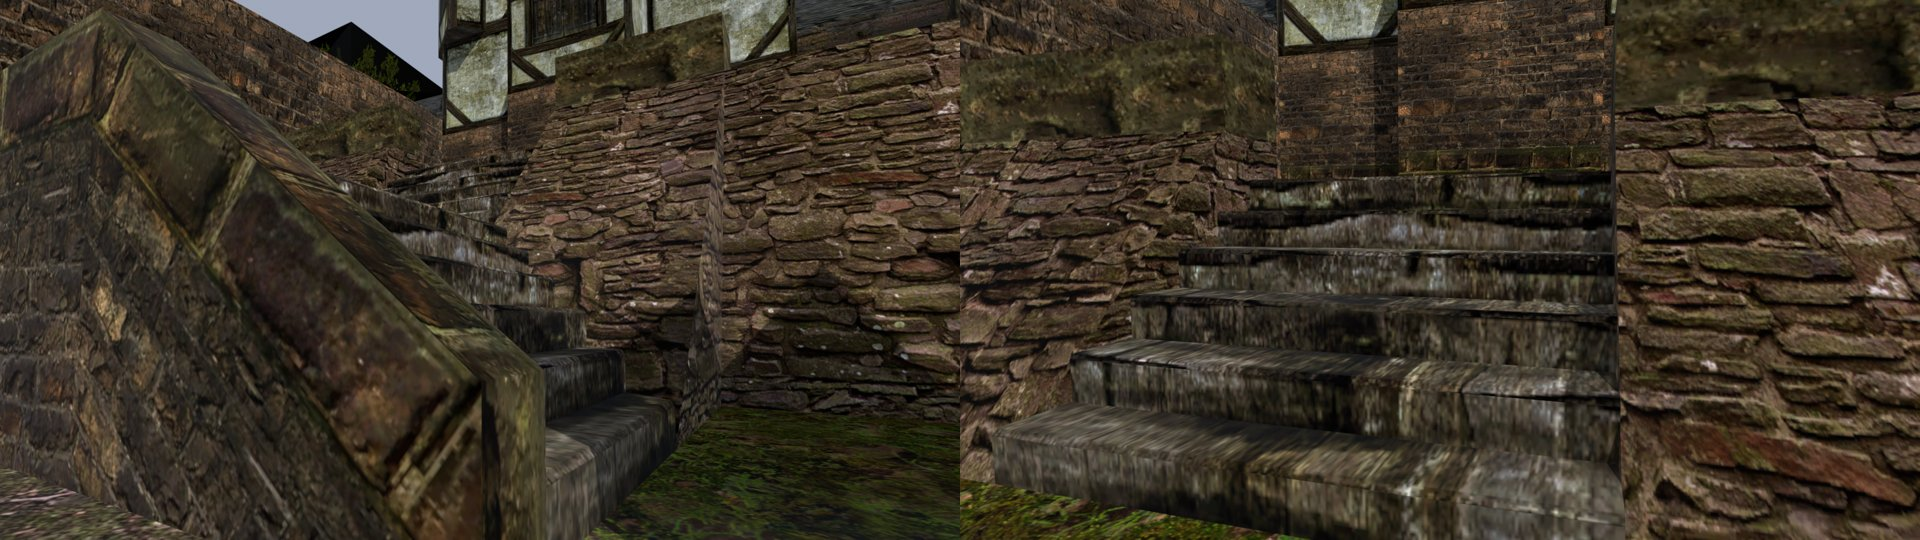
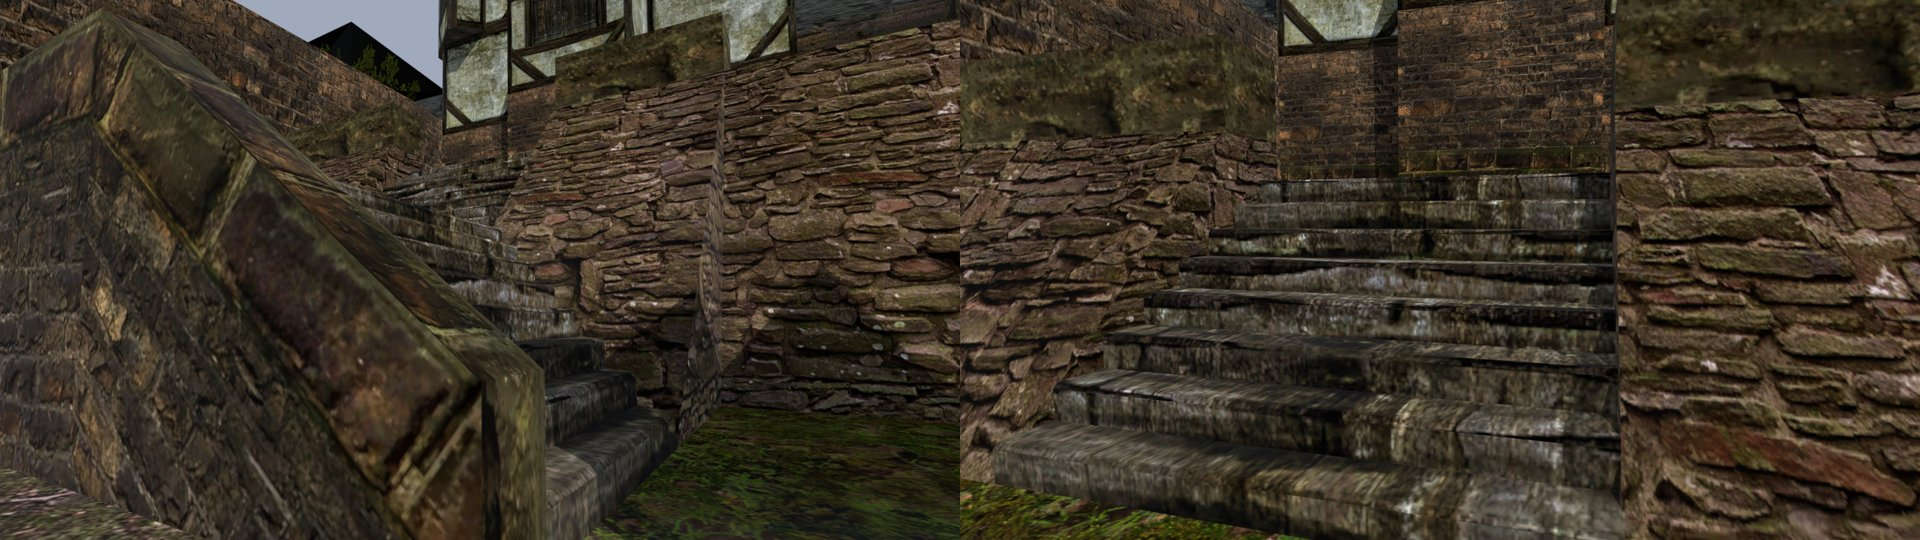
content: M2 - stair to the barracks with the first stair's riser, C1 on full sets
- harbour_stairs_kasern.py: 8 steps of 28.1 cm per flight (the first stair's 26.7 cm
  at the same 2.25 m rise), one painted period per step; walks up and down on Ryzen.
- The M2 sets lacked OWN_ROOF_HOLE_SHADE/WALL: working-8 holds them but none of its
  parts does, so sets composed from its parts lost them and the engine drew no hole
  or shingle-end faces (-44k triangles a frame). Sets now take roofhole-materials-1
  and match working-8 byte for byte outside the M2 chunks.
- C1 on the harbour, working-8 -> harbour-volume-4: p95 -0.05 %, in noise,
  +16k triangles a frame. Captures and reviewer packets redone on the fixed sets.
- Plan M2 row: crane decks and the stair to the barracks, as the orchestrator decided.

Changed region(s): [[0.5, 0.2963, 0.8438, 1.0], [0.1562, 0.2667, 0.3438, 0.9481]]

diff --git a/scripts/content/world/harbour_stairs_kasern.py b/scripts/content/world/harbour_stairs_kasern.py
@@ -7,10 +7,10 @@ An edit of world_edit.py on the chunk NEWWORLD/0_0 (set stairskasern-1):
 
 By the waypoint NW_CITY_HABOUR_KASERN_07 the path from the harbour climbs 4.50 m between stone walls in two flights
 of NW_HARBOUR_STAIRS_01 with a landing between them. Each flight is two triangles, one texture tile along the slope:
-6 painted steps, a light tread band (42 % of the period) over a dark riser (58 %), 2.25 m rise. The lower flight
-is a trapezoid: its foot is cut askew by the yard, 2.45 m wide at the bottom and 4.50 m at the top. The edit
-replaces each flight with 6 treads and risers in the original's proportions (37.5 cm riser), each nosing with a
-4 cm worn chamfer, the inner corners on the old ramp line, so the steps run into the side walls and the landing
+6 painted steps, a light tread band (42 % of the period) over a dark riser (58 %), 2.25 m rise over 3.5 m. The
+lower flight is a trapezoid: its foot is cut askew by the yard, 2.45 m wide at the bottom and 4.50 m at the top.
+The edit replaces each flight with the steps of the first stair (stairs-3: 26.7 cm riser): 8 steps of 28.1 cm,
+each taking one painted period of the texture, each nosing with a 4 cm worn chamfer, the inner corners on the old ramp line, so the steps run into the side walls and the landing
 without gaps; the sides follow the flight's own edges, so the trapezoid stays a trapezoid. Treads and risers both
 take the light band: the dark band is painted shadow, which the engine casts itself on a real riser (the lesson of
 the first stair, reports/content/2026-10-harbour-stairs/README.md). U across as on the ramp. Everything else in
@@ -24,13 +24,14 @@ from mathutils import Vector
 from world_bpy import gothic_name, to_blender, to_gothic
 
 PER_TILE = 6                # painted steps per texture tile along the slope
+RISER = 320.0 / 12          # cm: the riser of the first stair (stairs-3, harbour_stairs.py), which this one keeps
 TREAD_SHARE = 0.42          # light band of one period, measured on the texture (harbour_stairs.py)
 NOSING = 4.0                # cm, worn chamfer on each nosing
 NOSING_SHARE = 0.10         # the lower end of the light band goes on the chamfer
 MATERIAL = 'NW_HARBOUR_STAIRS_01'
 # The two flights in Gothic centimetres (x, z): by NW_CITY_HABOUR_KASERN_07.
 BOX = ((1500.0, 2300.0), (4900.0, 5950.0))
-PARAMETERS = {'material': MATERIAL, 'steps_per_tile': PER_TILE, 'tread_share': TREAD_SHARE, 'nosing_cm': NOSING,
+PARAMETERS = {'material': MATERIAL, 'steps_per_tile': PER_TILE, 'riser_cm': RISER, 'tread_share': TREAD_SHARE, 'nosing_cm': NOSING,
               'nosing_share': NOSING_SHARE, 'box_cm': {'x': list(BOX[0]), 'z': list(BOX[1])}}
 
 
@@ -95,8 +96,10 @@ def edit(ctx):
         flat = lambda v: Vector((v.x, 0.0, v.z))
         run_l, run_r = flat(t0[1] - b0[1]), flat(t1[1] - b1[1])
         v_bottom, v_top = 1.0 - b0[2].y, 1.0 - t0[2].y           # glTF v (Blender stores 1 - v)
-        steps = round((v_bottom - v_top) * PER_TILE)
-        period = (v_bottom - v_top) / steps
+        # as many steps as the first stair's riser gives; each takes one painted period of the texture, so
+        # the light band stays on the tread although the flight has more steps than the texture paints
+        steps = round(rise / RISER)
+        period = (v_bottom - v_top) / round((v_bottom - v_top) * PER_TILE)
         if color_corner is not None:
             colour = tuple(b0[3][color_corner])
         elif color_point is not None:
@@ -158,8 +161,7 @@ def edit(ctx):
         gn = NOSING / (horizontal.length / steps)
         hn = NOSING / (rise / steps)
         for s in range(1, steps + 1):
-            j = steps - s
-            v_back = v_top + j * period
+            v_back = v_bottom - (s % PER_TILE or PER_TILE) * period      # one painted period per step, counted from the foot
             v_nose = v_back + TREAD_SHARE * period
             v_edge = v_nose - NOSING_SHARE * period
             t, h = s - 1, s - 1

diff --git a/docs/world-detail-plan.md b/docs/world-detail-plan.md
@@ -50,7 +50,7 @@
 
 Настроение — сырость, работа, бедность без запустения ([П1–П4](khorinis-art-bible.md#порт-и-бедный-квартал)).
 
-- **Объём.** Ступени лестниц порта поверх пандуса (Д1). Края деревянных причалов с торцами досок и железными обвязками. Кромка гонтовых кровель `ROOF_01`: видна толщина, торцы дранки.
+- **Объём.** Ступени лестниц порта поверх пандуса (Д1). Края настилов портовых кранов с торцами досок и накладками (деревянных причалов в порту нет). Кромка гонтовых кровель `ROOF_01`: видна толщина, торцы дранки.
 - **Подмена предметов.** Ящики и бочки порта (бочка уже включена), краны, пушки на набережной, сети, бухты канатов (`harbour-rigging`).
 - **Следы жизни (Д1).** Сети сушатся на стойках у рыбаков. У складов штабели ящиков, у рыбаков корзины с рыбой и вёдра. В бедном квартале дрова у стен, бельё на верёвках, мусор в углах проулков. Всё свалено, а не расставлено (П4).
 - **Движение.** Паруса корабля паладинов и флаги — ткань уже есть, нужно проверить, что она включена на этих предметах. Дым из труб таверны и хижин (Д2), чайки над водой, плеск у набережной.
@@ -153,7 +153,7 @@
 | Шаг | Что | Готово, когда |
 |---|---|---|
 | М1 | Инструмент правки мира: обобщить `harbour_stairs.py` и `roof_holes.py` — взять кусок, подложить оригинал в Blender, вернуть кусок со сверкой (границы куска, связность, коллизия, площадь), запись в `world-edits.jsonl` | лестница и провалы пересобираются инструментом в те же куски |
-| М2 | Объём порта инструментом М1: кромки причалов с торцами досок, видимая толщина кромки `ROOF_01`, вторая лестница `HARBOUR_STAIRS_03` | Р3 PASS в обоих порядках, цена в пороге Ц1 |
+| М2 | Объём порта инструментом М1: кромки настилов кранов (`HARBOUR_WOOD_IRON_01`) с торцами досок, видимая толщина кромки `ROOF_01`, лестница к казармам (`HARBOUR_STAIRS_01`, кусок 0_0) | Р3 PASS в обоих порядках, цена в пороге Ц1 |
 | М3 | Снасти порта `harbour-rigging` (очередь № 10): сети, бухты канатов, пушки, ящики — моделями | Р3 PASS |
 | М4 | Следы жизни порта — после Д1: сети на стойках, штабели ящиков, корзины с рыбой, дрова, бельё; всё свалено, а не расставлено (П4) | слой `vobs.d/harbour-life.json`, Р3 по всему кадру, цена в пороге |
 | М5 | Движение и ночь порта: проверить ткань на парусах корабля и флагах, дым из труб таверны и хижин (после Д2), фонари набережной | кадры днём и ночью, Р3 |
@@ -209,9 +209,11 @@
 **2026-10-30 — М2: объём порта, три правки готовы к приёмке.** Инструментом М1 сделаны три правки мира, каждая в своём наборе поверх частей `working-8`, с ассетом, обмером, слепыми парами на Ryzen и пакетами рецензента:
 - [кромка гонта хижин](../reports/content/remaster/harbour-roof-edge/README.md) — `roof_edge.py`, `harbour-volume-2`: торцы гонтин нижнего ряда на швах `roofs-8` со стартовым рядом, ступени рядов на фронтонах; +10 706 треугольников (`0_-1` +3 908 поверх провалов, `0_0` +6 798);
 - [настил кранов](../reports/content/remaster/harbour-crane-deck/README.md) — `crane_deck.py`, `harbour-volume-1`: кромка досок 8 см и накладки в объёме на четырёх кранах; +2 032;
-- [лестница к казармам](../reports/content/remaster/harbour-stairs-kasern/README.md) — `harbour_stairs_kasern.py`, `harbour-volume-3`: два марша по 6 ступеней, по ним ходят; +68.
+- [лестница к казармам](../reports/content/remaster/harbour-stairs-kasern/README.md) — `harbour_stairs_kasern.py`, `harbour-volume-3`: два марша по 8 ступеней высотой как у первой лестницы (28,1 см против 26,7), по ним ходят; +92.
 
-Два пункта плана не совпали с миром. Деревянных причалов в порту нет: `HARBOUR_WOOD_IRON_01` лежит на кранах, поэтому сделаны их настилы. `HARBOUR_STAIRS_03` стоит только у портала храма в землях троллей, поэтому взят подъём к казармам. Оба выбора вынесены ведущей сессии. В М1 добавлены `ctx.chunk` (раньше там было имя рабочей копии `base`) и `ctx.base_chunks`: настилы A и B лежат через границу кусков. Урок кровли: квадрат `roofs-8` кончается коньковой доской, и на карнизах её полоска видна на 5–9 см. На первой съёмке она читалась светлой новой планкой по краю. Все три правки вместе — набор `harbour-volume-4`.
+Два пункта плана не совпали с миром. Деревянных причалов в порту нет: `HARBOUR_WOOD_IRON_01` лежит на кранах. `HARBOUR_STAIRS_03` стоит только у портала храма в землях троллей, вне квартала. Ведущая сессия решила: настилы кранов, силуэт и размеры кранов не меняются; лестница — подъём к казармам. Строка М2 выше поправлена. В М1 добавлены `ctx.chunk` (раньше там было имя рабочей копии `base`) и `ctx.base_chunks`: настилы A и B лежат через границу кусков. Урок кровли: квадрат `roofs-8` кончается коньковой доской, и на карнизах её полоска видна на 5–9 см. На первой съёмке она читалась светлой новой планкой по краю. Все три правки вместе — набор `harbour-volume-4`. Ц1 на порту, `working-8 → harbour-volume-4`: Δ p95 −0,05 %, Δ p50 +0,04 %, вердикт «в шуме»; +16 тыс. треугольников на кадр (+1,3 %), вызовов отрисовки столько же ([отчёт](../reports/performance/2026-10-30-content-cost/working-8-vs-harbour-volume-4/report.md)).
+
+Урок сборки: первый замер дал −44 тыс. треугольников на кадр при одних добавках. Причина — `working-8` нельзя пересобрать из его `composition.json`: материалы провалов `OWN_ROOF_HOLE_SHADE` и `OWN_ROOF_HOLE_WALL` лежат в нём, но ни в одной из его частей (`roofholes-2` в staging — только `worlds/`). Наборы, собранные из частей, остались без них, и движок не рисовал грани провалов и торцов. Теперь материалы — часть `roofhole-materials-1` (`roof_hole_shade.py`, файлы побайтно как в `working-8`). Состав `harbour-volume-1…4` сверен с `working-8` по SHA: отличаются только куски М2. У `working-8` счётчик между двумя замерами разошёлся на 703 треугольника (0,06 %), сам счётчик не плавает. Кадры и пакеты рецензента пересняты на исправленных наборах.
 
 **2026-10-30 — Ц1.** Добавлены `scripts/perf-content.sh` и профильные Vulkan-счётчики
 треугольников/draw calls. SHA-256 набора `working-8` сверен при переносе;

diff --git a/reports/content/remaster/harbour-stairs-kasern/README.md b/reports/content/remaster/harbour-stairs-kasern/README.md
@@ -1,16 +1,18 @@
 # Лестница от порта к казармам
 
-Шаг М2 [плана проработки мира](../../../../docs/world-detail-plan.md#план-выполнения), пункт «вторая лестница», 2026-10-30. Лист замысла — [intent.md](intent.md), исполнение — [concept.md](concept.md). Способ — [первой лестницы порта](../../2026-10-harbour-stairs/README.md). Не включено: ждёт приёмки и ворот пользователя по кварталу.
+Шаг М2 [плана проработки мира](../../../../docs/world-detail-plan.md#план-выполнения), пункт «лестница к казармам (`HARBOUR_STAIRS_01`, кусок 0_0)», 2026-10-30. Лист замысла — [intent.md](intent.md), исполнение — [concept.md](concept.md). Способ — [первой лестницы порта](../../2026-10-harbour-stairs/README.md). Не включено: ждёт приёмки и ворот пользователя по кварталу.
 
 ![Оригинал | наше: со двора, нижний марш, верхний марш с площадки](vs-original.jpg)
 
 ## Почему эта лестница
 
-`HARBOUR_STAIRS_03` в порту нет: он стоит только у портала храма в землях троллей. Взят самый большой подъём порта из пандусов `HARBOUR_STAIRS_01`, кроме уже сделанного, — путь к казармам у `NW_CITY_HABOUR_KASERN_07`. Выбор вынесен ведущей сессии вопросом.
+`HARBOUR_STAIRS_03` в порту нет: он стоит только у портала храма в землях троллей, вне квартала. Ведущая сессия 2026-10-30: имя в плане — ошибка; делать пандус `HARBOUR_STAIRS_01` у `NW_CITY_HABOUR_KASERN_07` тем же способом и с той же высотой и глубиной ступеней, что `stairs-3`.
+
+Другие пандусы `HARBOUR_STAIRS_01` без ступеней в порту (не сделаны): кусок `0_0` у `NW_CITY_HABOUR_KASERN_19` (13 м²), кусок `1_0` у `NW_CITY_HABOUR_KASERN_20` (13 м²), кусок `0_-1` в секторе кузницы `S:SCHMIED` (3 м²).
 
 ## Что сделано
 
-[`harbour_stairs_kasern.py`](../../../../scripts/content/world/harbour_stairs_kasern.py): два марша по 6 настоящих ступеней (подступенок 37,5 см) вместо пандусов, фаска 4 см, нижний марш — трапеция, как у оригинала. Подступенок берёт светлую полосу камня: нарисованную тень с него сняли (урок первой лестницы).
+[`harbour_stairs_kasern.py`](../../../../scripts/content/world/harbour_stairs_kasern.py): два марша по 8 настоящих ступеней вместо пандусов, фаска 4 см, нижний марш — трапеция, как у оригинала. Подступенок 28,1 см — ближайший к первой лестнице (26,7) при подъёме марша 2,25 м; проступь 36–45 см (у первой 33,3): вынос марша — оригинала. Нарисовано 6 ступеней на марш, поэтому каждая ступень берёт один нарисованный период. Подступенок берёт светлую полосу камня: нарисованную тень с него сняли (урок первой лестницы).
 
 Набор — `harbour-volume-3`: части `working-8` и `stairskasern-1`.
 
@@ -21,18 +23,20 @@
 | Точка | Оригинал (пандус) | Наше (ступени) |
 |---|---|---|
 | двор | 1871 300 4609 | 1871 300 4609 |
-| площадка | 1709 525 5426 | 1600 525 5615 |
-| верх | 2218 750 5798 | 2372 750 5844 |
-| обратно на площадку | 1515 525 5303 | 1640 525 5392 |
-| обратно во двор | 2006 300 4348 | 1947 300 4356 |
+| площадка | 1709 525 5426 | 1607 525 5603 |
+| верх | 2218 750 5798 | 2354 750 5836 |
+| обратно на площадку | 1515 525 5303 | 1621 525 5379 |
+| обратно во двор | 2006 300 4348 | 1954 300 4359 |
 
-Высоты те же: ступени по 37,5 см герой проходит вверх и вниз.
+Высоты те же: ступени по 28,1 см герой проходит вверх и вниз.
 
 ## Цена
 
 | Кусок | До | После | Δ треугольников |
 |---|---:|---:|---:|
-| `NEWWORLD/0_0` | 11 301 | 11 369 | +68 |
+| `NEWWORLD/0_0` | 11 301 | 11 393 | +92 |
+
+Время кадра: Ц1 на порту для трёх правок М2 вместе (`working-8 → harbour-volume-4`) — Δ p95 −0,05 %, в шуме, +16 тыс. треугольников на кадр (+1,3 %) ([отчёт](../../../performance/2026-10-30-content-cost/working-8-vs-harbour-volume-4/report.md)).
 
 ## Приёмка
 
@@ -45,5 +49,4 @@
 
 ## Что спорно
 
-- Сам выбор лестницы.
 - Сверху ступени светлее нарисованного пандуса: проступи ловят свет, а подступенки без нарисованной тени. Так было и у первой лестницы (`stairs-3`, принята пользователем).

diff --git a/reports/content/remaster/harbour-crane-deck/README.md b/reports/content/remaster/harbour-crane-deck/README.md
@@ -1,12 +1,12 @@
 # Настил портовых кранов
 
-Шаг М2 [плана проработки мира](../../../../docs/world-detail-plan.md#план-выполнения), пункт «кромки деревянных причалов», 2026-10-30. Лист замысла — [intent.md](intent.md), исполнение — [concept.md](concept.md). Не включено: ждёт приёмки и ворот пользователя по кварталу.
+Шаг М2 [плана проработки мира](../../../../docs/world-detail-plan.md#план-выполнения), пункт «кромки настилов кранов», 2026-10-30. Лист замысла — [intent.md](intent.md), исполнение — [concept.md](concept.md). Не включено: ждёт приёмки и ворот пользователя по кварталу.
 
 ![Оригинал | наше: кран C с набережной, угол настила вблизи](vs-original.jpg)
 
 ## Почему краны
 
-Деревянных причалов в порту нет: набережная и пирс к кораблю каменные. `HARBOUR_WOOD_IRON_01` («доски с железом») лежит в порту на четырёх деревянных кранах; самая заметная его часть — дощатый настил крана. Его кромку и накладки и сделали. Замена «причалов» на настилы кранов вынесена ведущей сессии вопросом.
+Деревянных причалов в порту нет: набережная и пирс к кораблю каменные. `HARBOUR_WOOD_IRON_01` («доски с железом») лежит в порту на четырёх деревянных кранах; самая заметная его часть — дощатый настил крана. Его кромку и накладки и сделали. Ведущая сессия подтвердила замену 2026-10-30; силуэт и размеры кранов не меняются, это главная деталь.
 
 ## Что сделано
 
@@ -28,6 +28,8 @@
 | `NEWWORLD/-1_-1` | C | 1 301 | 1 811 | +510 |
 | `NEWWORLD/-1_0` | D | 1 556 | 2 066 | +510 |
 
+Время кадра: Ц1 на порту для трёх правок М2 вместе (`working-8 → harbour-volume-4`) — Δ p95 −0,05 %, в шуме, +16 тыс. треугольников на кадр (+1,3 %) ([отчёт](../../../performance/2026-10-30-content-cost/working-8-vs-harbour-volume-4/report.md)).
+
 ## Приёмка
 
 Пакеты слепых пар, порядки `order-1` и `order-2` (вне git):
@@ -39,6 +41,5 @@
 
 ## Что спорно
 
-- Сама замена «причалов» кранами.
 - Накладки: по имени текстуры — железо, по рисунку — бурые полосы с гвоздями. Объём 2 см читается и так и так; цвет нарисованный.
 - Бока кромки берут полосу доски у края, на них видна вытянутая текстура вблизи.

diff --git a/reports/content/remaster/harbour-stairs-kasern/concept.md b/reports/content/remaster/harbour-stairs-kasern/concept.md
@@ -6,11 +6,11 @@
 
 | Часть | Как устроена | Размер, см | Объёмное или нарисованное |
 |---|---|---|---|
-| ступени | 6 на марш, внутренние углы на прежней линии пандуса | подступенок 37,5; проступь 58 (верхний марш), 49–60 (нижний) | объём |
+| ступени | 8 на марш, внутренние углы на прежней линии пандуса | подступенок 28,1 (у `stairs-3` 26,7); проступь 43,8 (верхний марш), 36,5–44,6 (нижний; у `stairs-3` 33,3) | объём |
 | кромка ступени | стёртая фаска | 4 | объём |
 | стороны | по прежним рёбрам марша: у трапеции нижнего марша ступени сужаются книзу | — | объём |
 
-Отличие от `harbour_stairs.py`: там марш — параллелограмм, здесь нижний марш — трапеция, поэтому каждая ступень ставится на долю пути вдоль каждой из двух сторон, а U — по долям сторон. Квадрат текстуры по склону — 6 ступеней, как у первой лестницы.
+Отличие от `harbour_stairs.py`: там марш — параллелограмм, здесь нижний марш — трапеция, поэтому каждая ступень ставится на долю пути вдоль каждой из двух сторон, а U — по долям сторон. Квадрат текстуры по склону рисует 6 ступеней, а их 8: каждая ступень берёт один нарисованный период, светлая полоса остаётся на проступи.
 
 ## Из чего сделано
 
@@ -20,11 +20,11 @@
 
 | Кусок | До | После | Δ |
 |---|---:|---:|---:|
-| `NEWWORLD/0_0` | 11 301 | 11 369 | +68 |
+| `NEWWORLD/0_0` | 11 301 | 11 393 | +92 |
 
 ## Ходьба
 
-Ступень 37,5 см — выше, чем у первой лестницы (26,7 см). Проверка — [`harbour-stairs-kasern-walk.bench`](../../../../scripts/content/harbour-stairs-kasern-walk.bench): герой идёт шагом со двора на площадку, на верх, и обратно; `pos` пишет, где он остановился. Результат — в [README](README.md).
+Проверка — [`harbour-stairs-kasern-walk.bench`](../../../../scripts/content/harbour-stairs-kasern-walk.bench): герой идёт шагом со двора на площадку, на верх, и обратно; `pos` пишет, где он остановился. Результат — в [README](README.md).
 
 ## Концепт
 

diff --git a/reports/performance/2026-10-30-content-cost/working-8-vs-harbour-volume-4/report.md b/reports/performance/2026-10-30-content-cost/working-8-vs-harbour-volume-4/report.md
@@ -1,0 +1,27 @@
+# Цена контента квартала
+
+A: `working-8`; B: `harbour-volume-4`. Ryzen, Vulkan, drawable 1728×1117.
+
+Commit: `20e9ae8a0e85ae68b03b7be615880a6a9d2d01f9`; dirty files: 10. Порядок каждого места: A B B A, одна сборка и одна заявка `gq quiet`.
+
+Вердикт p95: «в шуме» при модуле Δ ≤ 2%; «в пороге» при Δ ≤ +5% вне шума; «сверх порога» иначе.
+
+| Место | p50 A, мс | p50 B, мс | Δ p50 | Разброс p50 A / B, мс | p95 A, мс | p95 B, мс | Δ p95 | Разброс p95 A / B, мс | Вердикт p95 |
+|---|---:|---:|---:|---:|---:|---:|---:|---:|---|
+| harbour | 9.641 | 9.644 | +0.04% | 0.010 / 0.070 | 10.452 | 10.447 | -0.05% | 0.057 / 0.047 | в шуме |
+
+| Место | Треугольники/кадр A | Треугольники/кадр B | Draw calls/кадр A | Draw calls/кадр B |
+|---|---:|---:|---:|---:|
+| harbour | 1265275 | 1281189 | 83.1 | 83.1 |
+
+harbour: +16 тыс. треугольников (+1.3%) и +0.0 вызова отрисовки на кадр; время кадра — в шуме (Δ p95 -0.05%).
+
+Frame intervals are differences between consecutive submitted attempt begin_ns timestamps in the same contiguous perf-PLACE/view-N segment. Intervening FenceBusy attempts count toward elapsed time and zone costs, never as rendered frames. Partial time before the first and after the last submitted attempt of each segment is omitted. FPS is interval count / measured wall time; percentiles use linear interpolation. appcadence.csv is retained as a clock diagnostic, not used for these statistics.
+
+Absolute p95 delta <= calibrated noise band in percent. Repeat max-min spread is descriptive only. Percentiles pool frame intervals from both repeats.
+
+Треугольники: Vulkan clipping-stage input primitives, все треугольные проходы (включая indirect/mesh, тени, глубину, UI и post). Draw calls: команды графической отрисовки API, включая indirect с нулевой работой. Средние счётчиков используют только кадры с `geometry_done=1`; доля завершения — в JSON. Запросы читаются после штатного fence без дополнительного ожидания.
+
+CSV и журналы: `/mnt/shared/gothic-ai/perf-content-worktrees/runs/perf-content-20261030T063934Z-77281`.
+
[1 lines of base64/hex data omitted]

diff --git a/reports/content/remaster/harbour-crane-deck/intent.md b/reports/content/remaster/harbour-crane-deck/intent.md
@@ -1,6 +1,6 @@
 # Замысел оригинала: Настил портовых кранов
 
-Ассет `harbour-crane-deck`, шаг М2 [плана проработки мира](../../../../docs/world-detail-plan.md#план-выполнения), пункт «кромки деревянных причалов порта».
+Ассет `harbour-crane-deck`, шаг М2 [плана проработки мира](../../../../docs/world-detail-plan.md#план-выполнения), пункт «кромки настилов кранов (`HARBOUR_WOOD_IRON_01`)».
 
 Источники:
 - кадры оригинала — сценарий [`harbour-crane-deck.bench`](../../../../scripts/content/harbour-crane-deck.bench) по [камерам](cameras.json);
@@ -64,4 +64,4 @@ P2. Накладки читаются полосами поверх досок, 
 
 ## Отступления
 
-Нет. Объём досок и накладок — объём там, где оригинал нарисовал его на плоскости: добавка без смены главной детали (решение пользователя 2026-10-24, [план проработки мира](../../../../docs/world-detail-plan.md#правила)). Что вместо «деревянных причалов» сделаны настилы кранов — вопрос к ведущей сессии (2026-10-30).
+Нет. Объём досок и накладок — объём там, где оригинал нарисовал его на плоскости: добавка без смены главной детали (решение пользователя 2026-10-24, [план проработки мира](../../../../docs/world-detail-plan.md#правила)). Настилы кранов вместо «деревянных причалов» — решение ведущей сессии 2026-10-30: «делай настилы кранов вместо причалов: торцы досок, толщину и накладки объёмом. Силуэт и размеры кранов не меняй». Силуэт и размеры не меняются: кромка выходит на 3 см, накладки — на 2 см.

diff --git a/reports/content/remaster/harbour-roof-edge/README.md b/reports/content/remaster/harbour-roof-edge/README.md
@@ -13,7 +13,7 @@
 
 На первой съёмке кромка читалась светлой новой планкой. Причина — не торцы: квадрат `roofs-8` по V кончается коньковой доской, и на карнизе (V 1,013–1,021) её полоска видна на 5–9 см. Теперь торцевые гонтины лежат поверх неё, а торцы — тёмным торцевым волокном. Пакеты собраны со второй съёмки.
 
-Набор — `harbour-volume-2`: части `working-8`, где `roofholes-2` заменён на `roofedge-1`. Кусок `0_-1` в нём — провалы и кромка вместе, по реестру.
+Набор — `harbour-volume-2`: части `working-8`, где `roofholes-2` заменён на `roofedge-1`, и материалы провалов `roofhole-materials-1`. Кусок `0_-1` в нём — провалы и кромка вместе, по реестру.
 
 ## Цена
 
@@ -22,7 +22,7 @@
 | `NEWWORLD/0_-1` | 13 360 (с провалами) | 17 268 | +3 908 |
 | `NEWWORLD/0_0` | 11 301 | 18 099 | +6 798 |
 
-Время кадра — общий замер трёх правок М2 в журнале плана.
+Время кадра: Ц1 на порту для трёх правок М2 вместе (`working-8 → harbour-volume-4`) — Δ p95 −0,05 %, в шуме, +16 тыс. треугольников на кадр (+1,3 %) ([отчёт](../../../performance/2026-10-30-content-cost/working-8-vs-harbour-volume-4/report.md)).
 
 ## Приёмка
 
